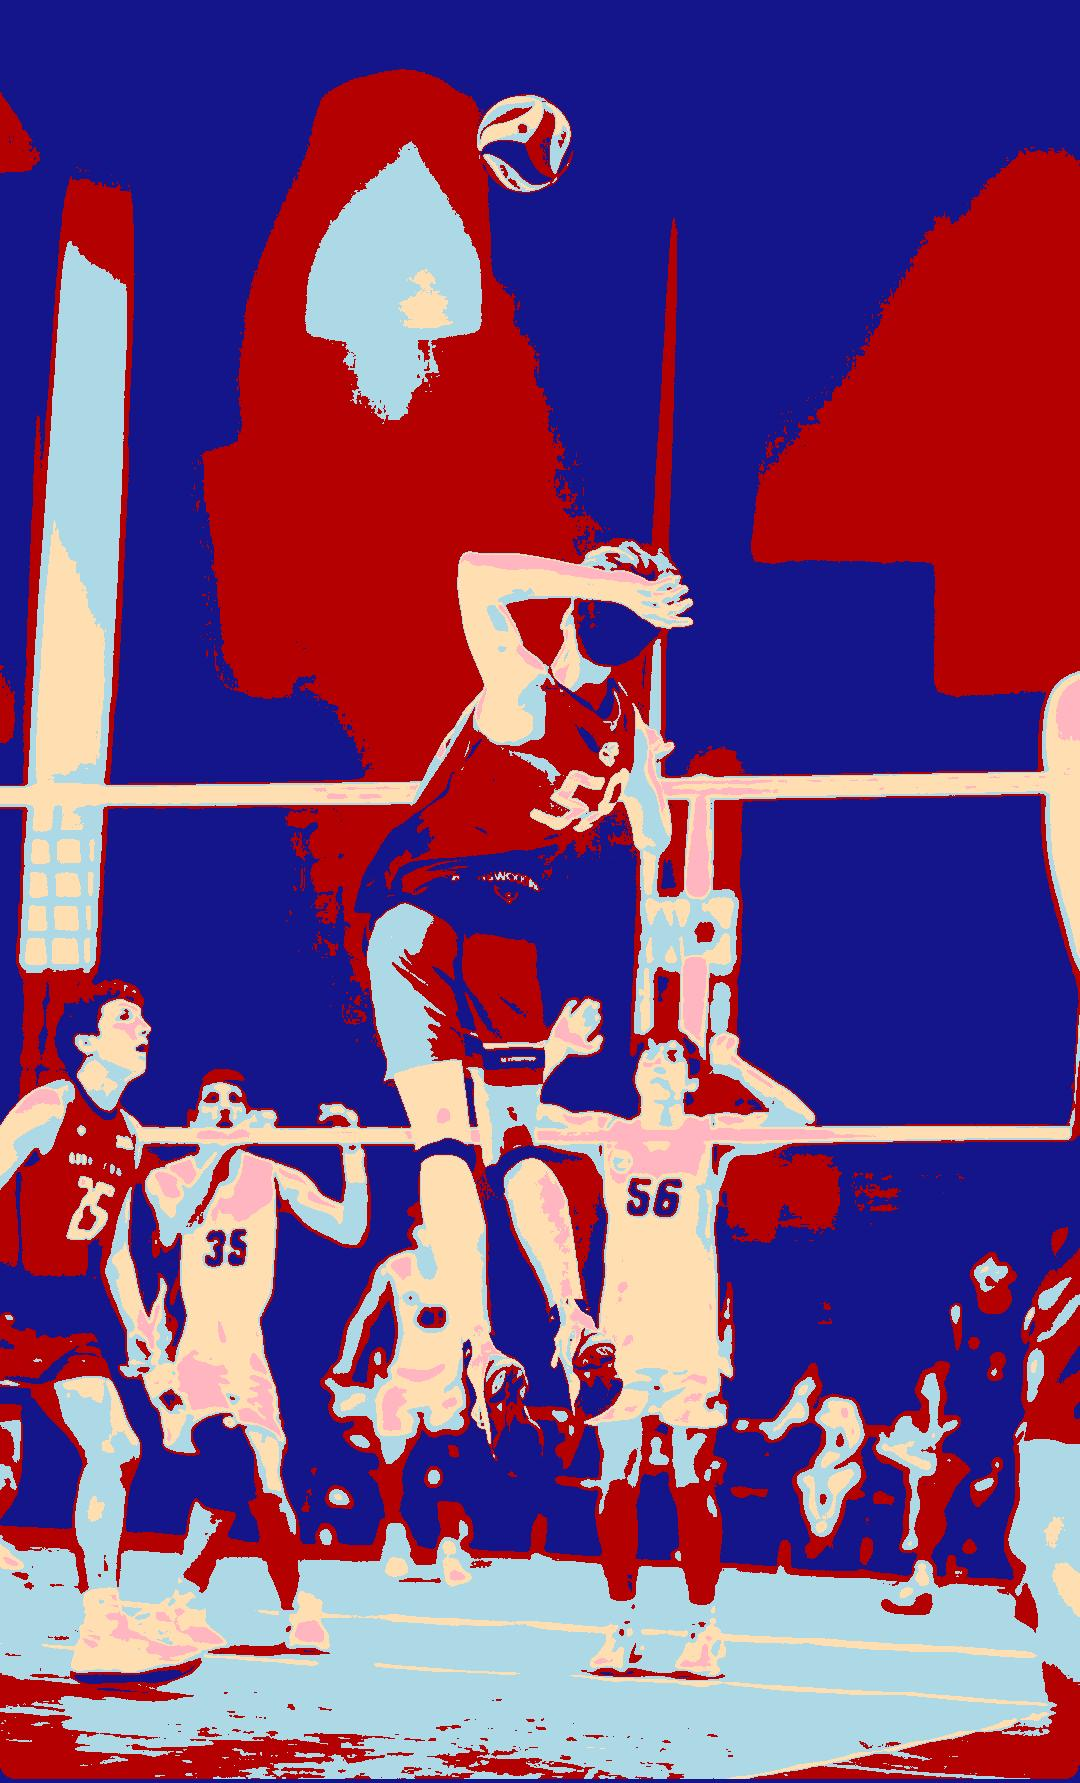
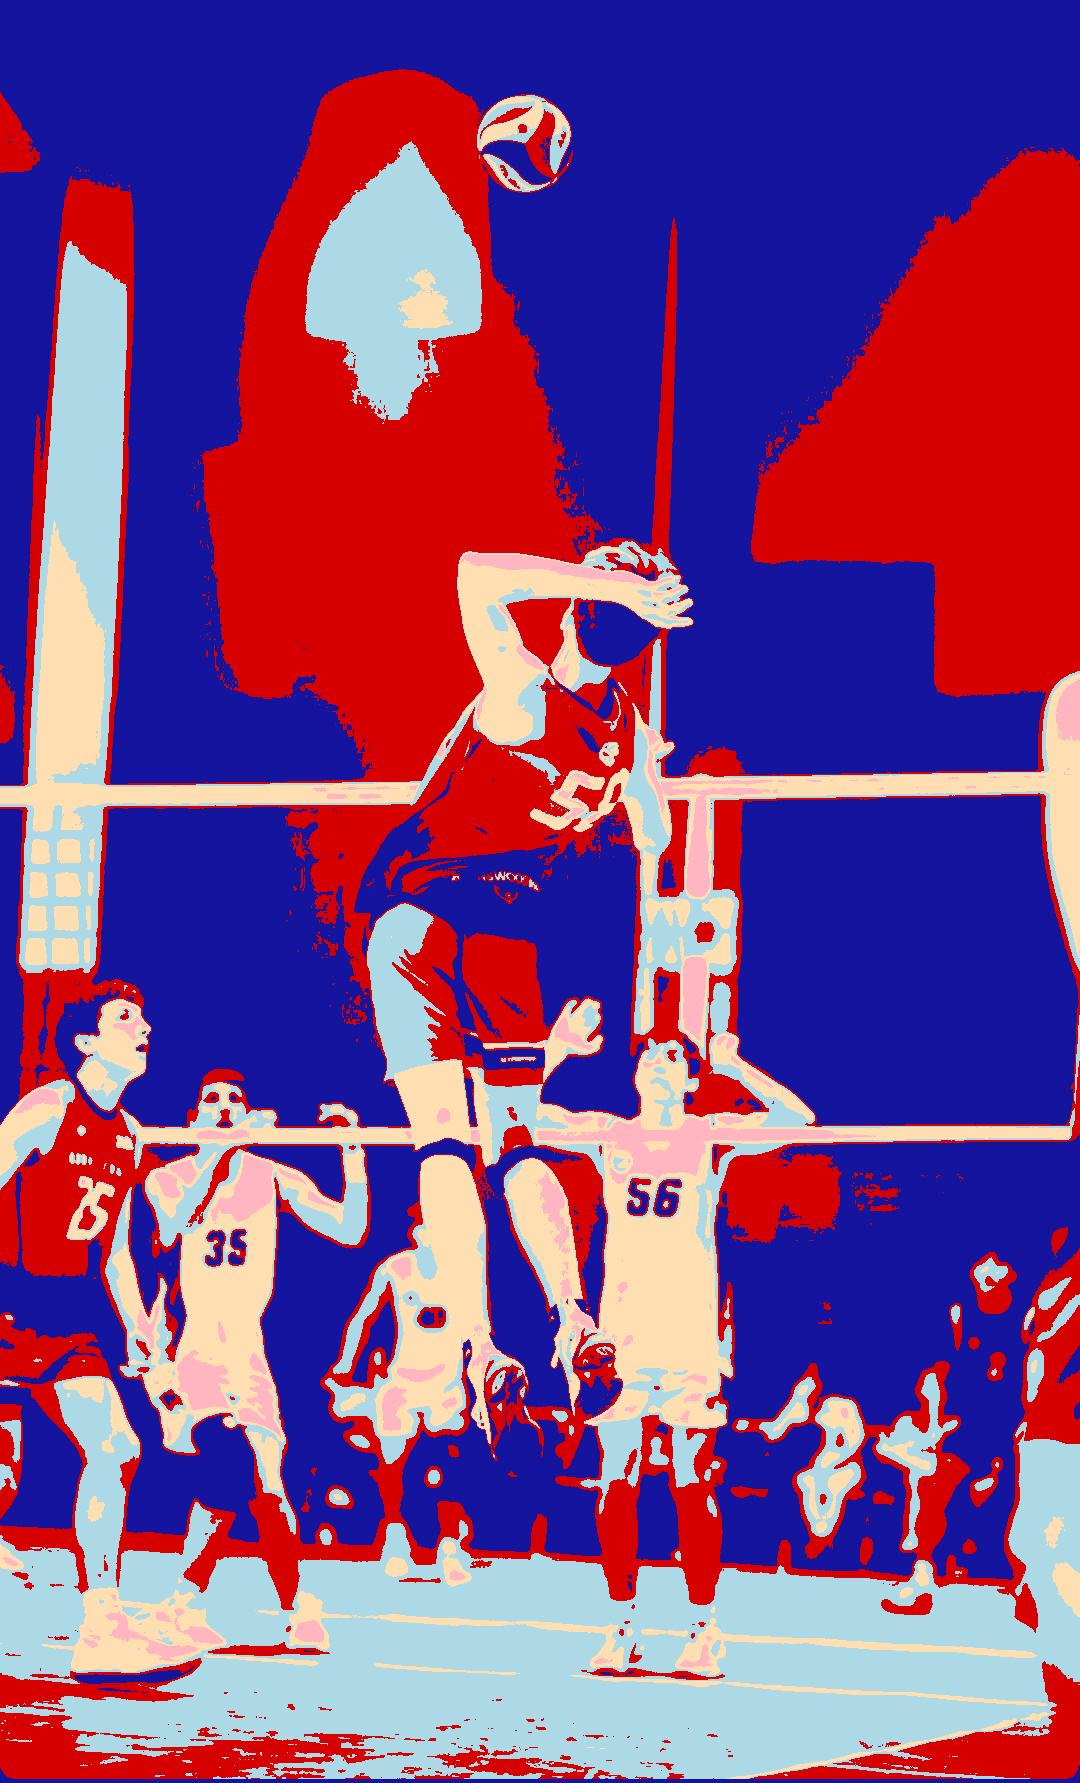
finished shepard fairy

diff --git a/ColorLabs17/SheparFaireyLab.java b/ColorLabs17/SheparFaireyLab.java
@@ -46,7 +46,7 @@ public class SheparFaireyLab
             }
          volleyball.explore();
          System.out.println("Min: " + min + " Max: " + max);
-         /*
+         /**/
          int group1 = (int) (255/5);
          int group2 = (int) ((2*255)/5);
          int group3 = (int) ((3*255)/5);
@@ -57,10 +57,10 @@ public class SheparFaireyLab
              if (gray<group1){
                 red = 20;
                 green = 20;
-                blue = 139;
+                blue = 159;
                 }
              else if(gray<group2){
-                red = 180;
+                red = 215;
                 green = 0;
                 blue = 0;
                 }
@@ -117,7 +117,7 @@ public class SheparFaireyLab
             }
             volleyball.explore();
             volleyball.write("images/sf2.jpg");
-          /**/
+          /*
          int group1 = (int) (255/5);
          int group2 = (int) ((2*255)/5);
          int group3 = (int) ((3*255)/5);
@@ -154,7 +154,7 @@ public class SheparFaireyLab
             }
             volleyball.explore();
             //volleyball.write("images/sf4.jpg");
-
+            */
          
     }//main       
 }//class
